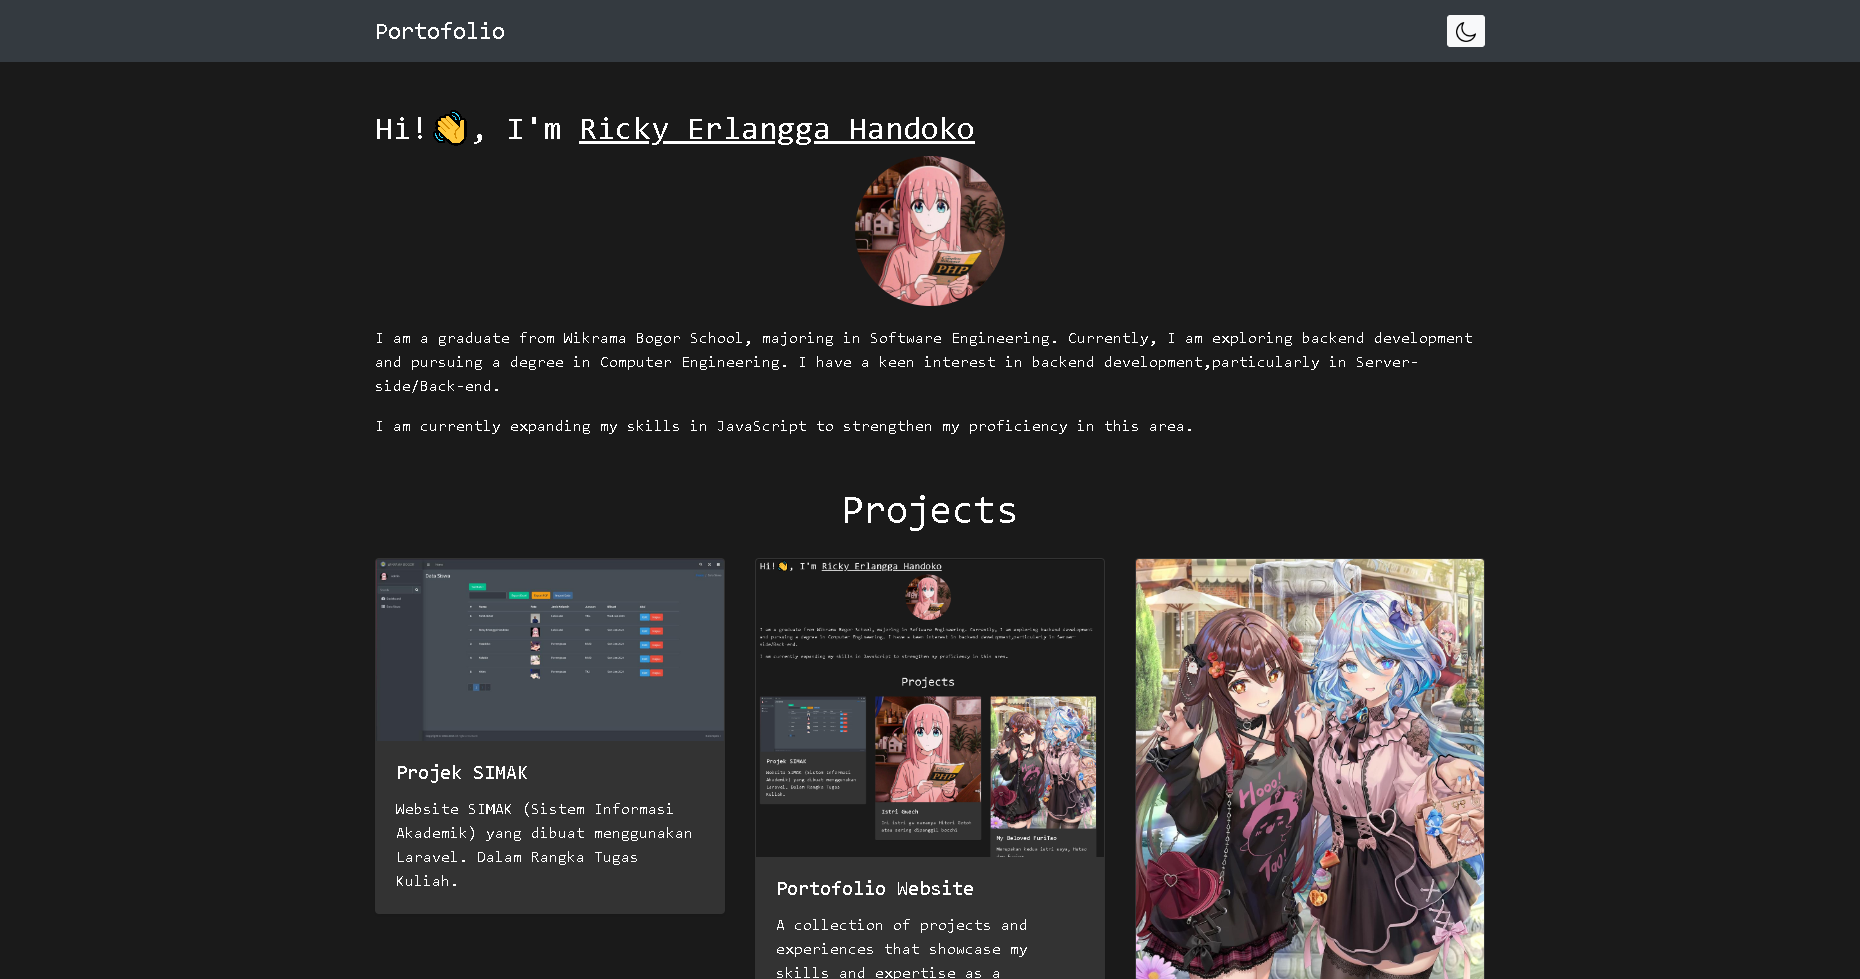
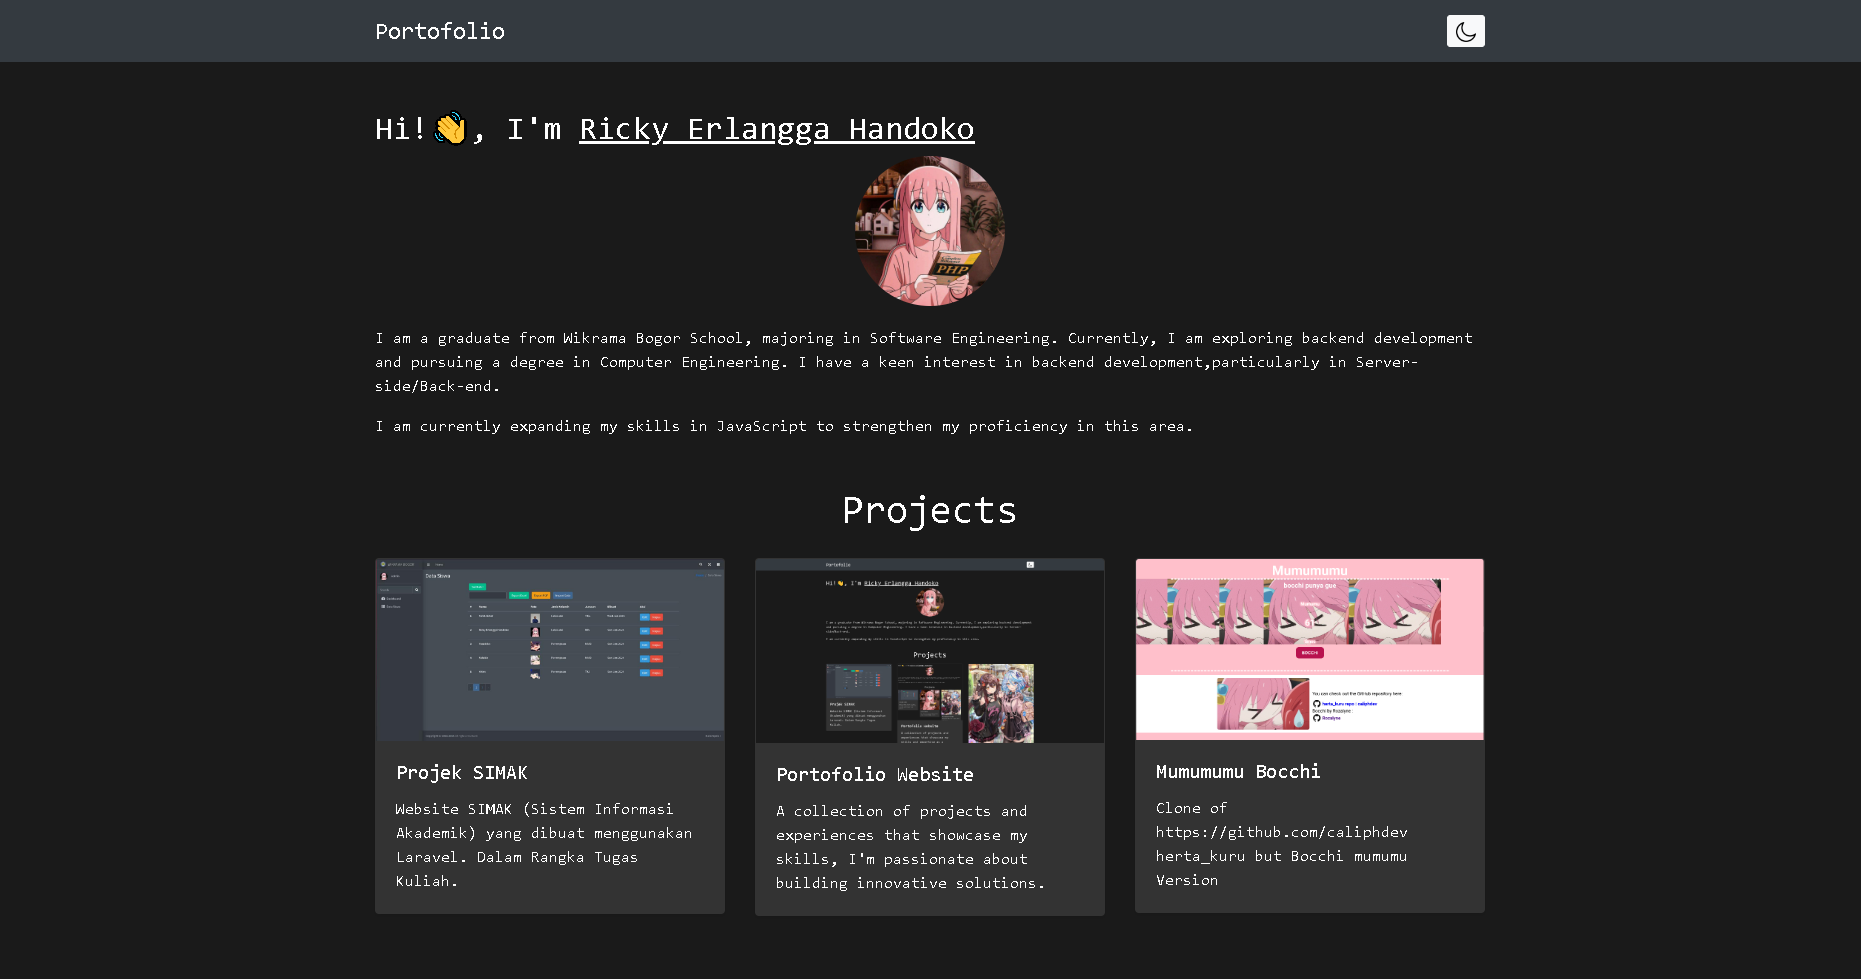
"Updated image file and changed heading tags from h5 to h3 in index.html"

diff --git a/index.html b/index.html
@@ -38,7 +38,7 @@
                 <div class="card mb-4 shadow-sm">
                     <img src="/img/projek1.png" class="card-img-top" alt="Project 1">
                     <div class="card-body">
-                        <h5 class="card-title"><a href="https://github.com/rozalyne/PROJEK_LARAVEL_SIMAK" target="_blank">Projek SIMAK</a></h5>
+                        <h3 class="card-title"><a href="https://github.com/rozalyne/PROJEK_LARAVEL_SIMAK" target="_blank">Projek SIMAK</a></h3>
                         <p class="card-text description">Website SIMAK (Sistem Informasi Akademik) yang dibuat menggunakan Laravel. Dalam Rangka Tugas Kuliah.</p>
                     </div>
                 </div>
@@ -47,7 +47,7 @@
                 <div class="card mb-4 shadow-sm">
                     <img src="/img/portofolio.PNG" class="card-img-top" alt="Project 2">
                     <div class="card-body">
-                        <h5 class="card-title"><a href="https://github.com/rozalyne/portofolio" target="_blank">Portofolio Website</a></h5>
+                        <h3 class="card-title"><a href="https://github.com/rozalyne/portofolio" target="_blank">Portofolio Website</a></h3>
                         <p class="card-text description">A collection of projects and experiences that showcase my skills, I'm passionate about building innovative solutions.</p>
                     </div>
                 </div>
@@ -56,7 +56,7 @@
                 <div class="card mb-4 shadow-sm">
                     <img src="/img/mumumu.png" class="card-img-top" alt="Project 3">
                     <div class="card-body">
-                        <h5 class="card-title"><a href="#" target="_blank">Mumumumu Bocchi</a></h5>
+                        <h3 class="card-title"><a href="https://github.com/rozalyne/mumumumu-bocchi" target="_blank">Mumumumu Bocchi</a></h3>
                         <p class="card-text description">Clone of https://github.com/caliphdev herta_kuru but Bocchi mumumu Version </p>
                     </div>
                 </div>
